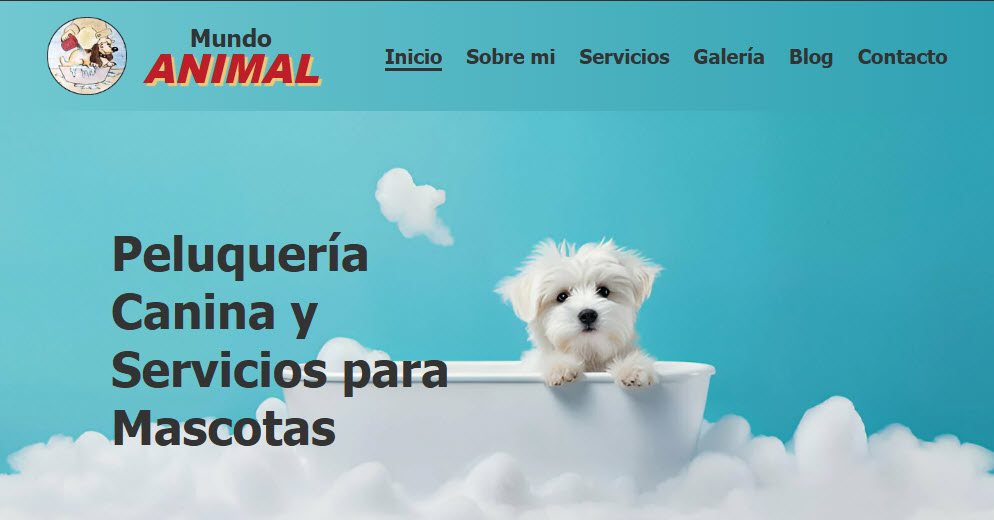
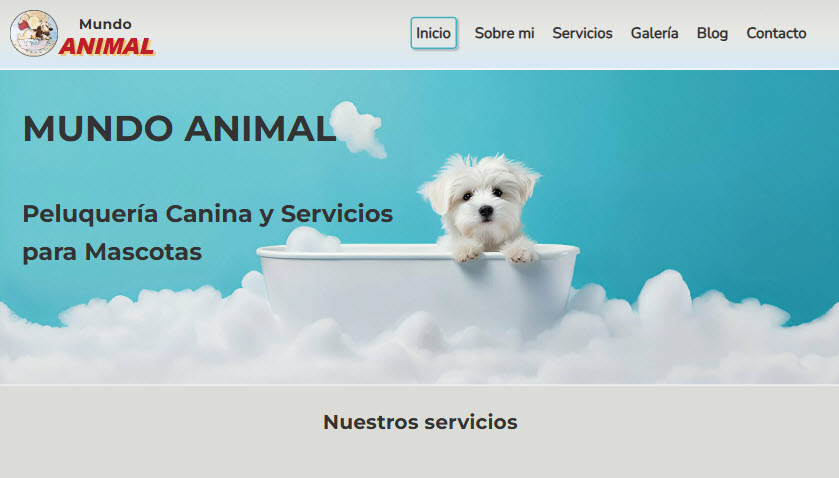
reseña, info proyectos

diff --git a/index.html b/index.html
@@ -33,7 +33,7 @@
         <h1>Hola, soy José <!-- Ramírez --></h1>
         <p>Desarrollador JavaScript</p>
         <div class="social">
-          <a href="https://www.linkedin.com/in/jos%C3%A9-ram%C3%ADrez-14799a2b9/" target="_blank"
+          <a href="https://www.linkedin.com/in/jos%C3%A9-ram%C3%ADrez-ibarra-14799a2b9?lipi=urn%3Ali%3Apage%3Ad_flagship3_profile_view_base_contact_details%3BRmvuLdNiRZGxDJbSP0wIVQ%3D%3D" target="_blank"
             rel="noopener noreferrer"><img src="assets/images/linkedin.svg" alt="logo linkedin" class="social-logo"></a>
           <a href="https://github.com/RamirezJM" target="_blank" rel="noopener noreferrer"><img
               src="assets/images/github.svg" alt="logo github" class="social-logo"></a>
@@ -50,7 +50,8 @@
         la creación,
         la precisión de la ciencia y el desafío constante de la resolución de problemas. <span>Nunca dejo de
           estudiar</span>, siempre
-        estoy buscando expandir mis conocimientos, explorar nuevas tecnologías y satisfacer mi <span>curiosidad infinita</span>. Aunque soy relativamente nuevo en el
+        estoy buscando expandir mis conocimientos, explorar nuevas tecnologías y satisfacer mi <span>curiosidad
+          infinita</span>. Aunque soy relativamente nuevo en el
         mundo del desarrollo profesional, me siento como en casa.</p>
       <p><span>La lógica, la creatividad y la búsqueda de soluciones</span>
         siempre han sido parte de mí, y encuentro en la programación el medio perfecto para expresarlas. También
@@ -128,28 +129,38 @@
 
           <div class="swiper-slide">
             <blockquote>
-              <p>Lorem, ipsum dolor sit amet consectetur adipisicing elit. Voluptatem magnam perspiciatis alias
-                dignissimos
-                non beatae consectetur dolores voluptatum quidem, in temporibus impedit at illum animi. Asperiores quo
-                maiores odit ut?</p>
-              <p>Juans oasisi</p>
+              <p class="quote">
+                Antes de este proyecto practicamente no tenía publicidad y estaba en desventaja frente a la competencia.
+                Pero desde que comencé a trabajar con José he tenido excelentes resultados, aumentó la visibilidad de mi
+                negocio, llegaron más clientes y aumenté las ventas de servicios. Desde el primer minuto todo fue muy
+                sencillo, cada duda que tuve me la explicó con muchísima claridad, dándome confianza con su
+                profesionalismo. Lo recomiendo un 100% por su forma de trabajo y por el real impacto que ha tenido en mi
+                peluquería.
+              </p>
+              <p>Solange Pastén, propietaria de 'Mundo Animal'</p>
             </blockquote>
           </div>
           <div class="swiper-slide">
-            <p>
+            <blockquote>            
+              <p class="quote">
               Lorem ipsum dolor sit amet, consectetur adipisicing elit. Debitis temporibus maiores eius quisquam
               cupiditate explicabo officiis, minus dignissimos numquam beatae molestias eum eligendi! Quidem nam quo et
               facilis recusandae expedita?
             </p>
+            </blockquote>
+
           </div>
           <div class="swiper-slide">
-            <p>Lorem, ipsum dolor sit amet consectetur adipisicing elit. Itaque inventore illum molestias explicabo
+            <blockquote>
+            <p class="quote">Lorem, ipsum dolor sit amet consectetur adipisicing elit. Itaque inventore illum molestias explicabo
               placeat quos, sequi, eius blanditiis, deleniti sapiente repellat. Neque, cumque ut perspiciatis in magni
               itaque ratione sunt?</p>
-          </div>
+          </blockquote>
+            </div>
         </div>
 
         <div class="swiper-pagination"></div>
+
         <div class="swiper-button-prev"></div>
         <div class="swiper-button-next"></div>
 
@@ -191,7 +202,7 @@
   <script src="assets/js/observer-script.js" type="module"></script>
   <script src="assets/js/script.js" type="module"></script>
 </body>
- <div id="maintenance-overlay" style="
+<!--  <div id="maintenance-overlay" style="
     position: fixed;
     top: 0;
     left: 0;
@@ -220,6 +231,6 @@
     ramirezjosemiguel@gmail.com
   </p>
 </div>   
-
+ -->
 
 </html>

diff --git a/assets/css/styles.css b/assets/css/styles.css
@@ -33,34 +33,28 @@ html{
   --gradient2: linear-gradient(45deg, #121212, #2b2b2b, #1c1c1c, #2b2b2b);
   --bg1: #1c1c1e;
   --bg2: #2a2e35;
-
+  --font-body: 'Manrope', sans-serif;
+  --font-heading: 'DM Serif Display', serif;
+  --font-color: #f0f0f0;
+  --title-color: #8b56f6;
+  --accent: #2563eb;
 }
 
 /*****  GENERAL  *****/
 
 body{
-  font-family: 'Manrope', sans-serif;
+  font-family: var(--font-body);
   line-height: 1.6;
   scroll-behavior: smooth;
-  color: #f0f0f0;
+  color: var(--font-color);
   background: var(--main);
-  background-size: 300% 100%;
-  min-height: 100vh;
-  animation: gradient-flow 15s linear infinite;
-
-
-  /* background-color: #121212;
-  background-image: radial-gradient(circle, rgba(255,255,255,0.015) 1px, transparent 1px);
-  background-size: 20px 20px;
-
-  color: #e0e0e0; */
 }
 
 
 h1, h2, h3{
-  /* font-family: 'DM Serif Display', serif; */
-  font-family: Cambria, Cochin, Georgia, Times, 'Times New Roman', serif;
-  color: #8b56f6; 
+  
+  font-family: var(--font-heading);
+  color: var(--title-color); 
 
 }
 h1{
@@ -75,7 +69,6 @@ h2{
   
 }
 h2::after{
-
   content: '';
   display: block;
   width: 150px;
@@ -95,11 +88,7 @@ h3{
 .about, .skills, .formation, .projects, .references, .contact{
   width: 80%;
   max-width: 1100px;
-  /* margin:0 auto; */
- /*  padding: 1em; */
-}
-
-
+ }
 
 a{
   color: #34de99;
@@ -155,7 +144,7 @@ header{
 
 
 .logo{
-  width: clamp(40px, 8.5vw, 80px);
+  width: clamp(60px, 8.5vw, 80px);
 }
 
 .hamburger-menu {
@@ -175,7 +164,7 @@ header{
   display: block;
   width: 25px;
   height: 3px;
-  background-color: #2563eb;
+  background-color: var(--accent);
   border-radius: 2px;
   transition: all 0.3s ease;
  
@@ -208,7 +197,7 @@ nav{
    max-height: 0;
    opacity: 0;
    visibility: hidden;
-   /* transition: opacity .3s ease-out, max-height .3s ease-out, visibility .3s; */
+   
    
 }
 .active{
@@ -240,10 +229,6 @@ nav{
   border-bottom: 2px solid #34de99;  /* Igual que color base */
   font-weight: bold;
 }
-/* .active-link{
-  text-decoration: underline;
-  color: red;
-} */
 
 main{
   display: flex;
@@ -257,8 +242,8 @@ main{
 
 .hero{
   background-color: var(--gradient2);
-  animation: gradient-flow 15s linear infinite;
   padding: 2em 4em;
+  box-shadow: 0 3px 2px #4b5563;
   
 }
 .hero, .hero-text{
@@ -410,9 +395,11 @@ span{
 }
 
 /*****  PROJECTS  *****/
-/* .projects{
-  min-height: 100vh;
-} */
+#project-container{
+  display: flex;
+  flex-direction: column;
+  gap: 2em;
+} 
 
 .project{
  /*  display: flex;
@@ -421,10 +408,10 @@ span{
   display: grid;
   grid-template-columns: 1fr;
   gap: 1em;
-  border: green solid 1px;
+  border: var(--accent) solid 2px;
   border-radius: 5px;
   padding: 1em;
- /*  margin-block: 1em; */
+ 
 }
 
 .project-info{
@@ -460,23 +447,30 @@ span{
   width: 30px;
 }
 
+.btn-details{
+  border-radius: 5px;
+  background-color: var(--accent);
+  color: var(--font-color);
+  border: none;
+  font-weight: 600;
+  font-size: 1.1rem;
+  width: fit-content;
+  padding: .5em 1em;
+  align-self: center;
+}
+
 .project-details{
   max-height: 0;
   overflow: hidden;
    padding-top: 0;
     padding-bottom: 0;
-    opacity: 0; /* Inicia transparente */
+    opacity: 0;
     transition: max-height 0.5s ease-out, padding 0.5s ease-out, opacity 0.5s ease-out;
 }
 
 .project-details.show-details {
-    /* Un valor lo suficientemente grande para contener todo el contenido cuando está desplegado */
-    /* Ajusta este valor si tu contenido es muy largo */
-    max-height: 900px; 
-  /*   padding-top: 15px;
-    padding-bottom: 15px; */
-    opacity: 1; /* Se vuelve visible */
-    
+   max-height: 900px; 
+    opacity: 1; 
 }
 
 .rol-details{
@@ -488,17 +482,25 @@ span{
   margin-block: .7em;
 }
 
+.swiper-wrapper{
+  margin-block: 1em;
+}
 
-
-
-
-.swiper>blockquote{
+blockquote{
   width: 80%;
-  
+  margin: 2em auto;
 }
-.swiper-button-prev, .swiper-button-next{
+
+.quote{
+  font-style: italic;
+  font-size: 1.2rem;
+  font-weight: 500;
+  margin-block: 1em;
+}
+
+/* .swiper-button-prev, .swiper-button-next{
   display: none;
-}
+} */
 /*****  CONTACT  *****/
 
 

diff --git a/assets/js/script.js b/assets/js/script.js
@@ -63,7 +63,6 @@ menuButton.addEventListener('click', () => {
 AOS.init();
 
 
-
 const swiper = new Swiper('.swiper', {
   // Optional parameters
   direction: 'horizontal',
@@ -85,6 +84,28 @@ const swiper = new Swiper('.swiper', {
 
 });
 
+
+/* const swiper = new Swiper('.swiper', {
+  // Optional parameters
+  direction: 'horizontal',
+  loop: true,
+
+  // If we need pagination
+  pagination: {
+    el: '.swiper-pagination',
+  },
+
+  autoplay: {
+    delay: 10000,
+  },
+  // Navigation arrows
+  navigation: {
+    nextEl: '.swiper-button-next',
+    prevEl: '.swiper-button-prev',
+  },
+
+});
+ */
 
 
 
